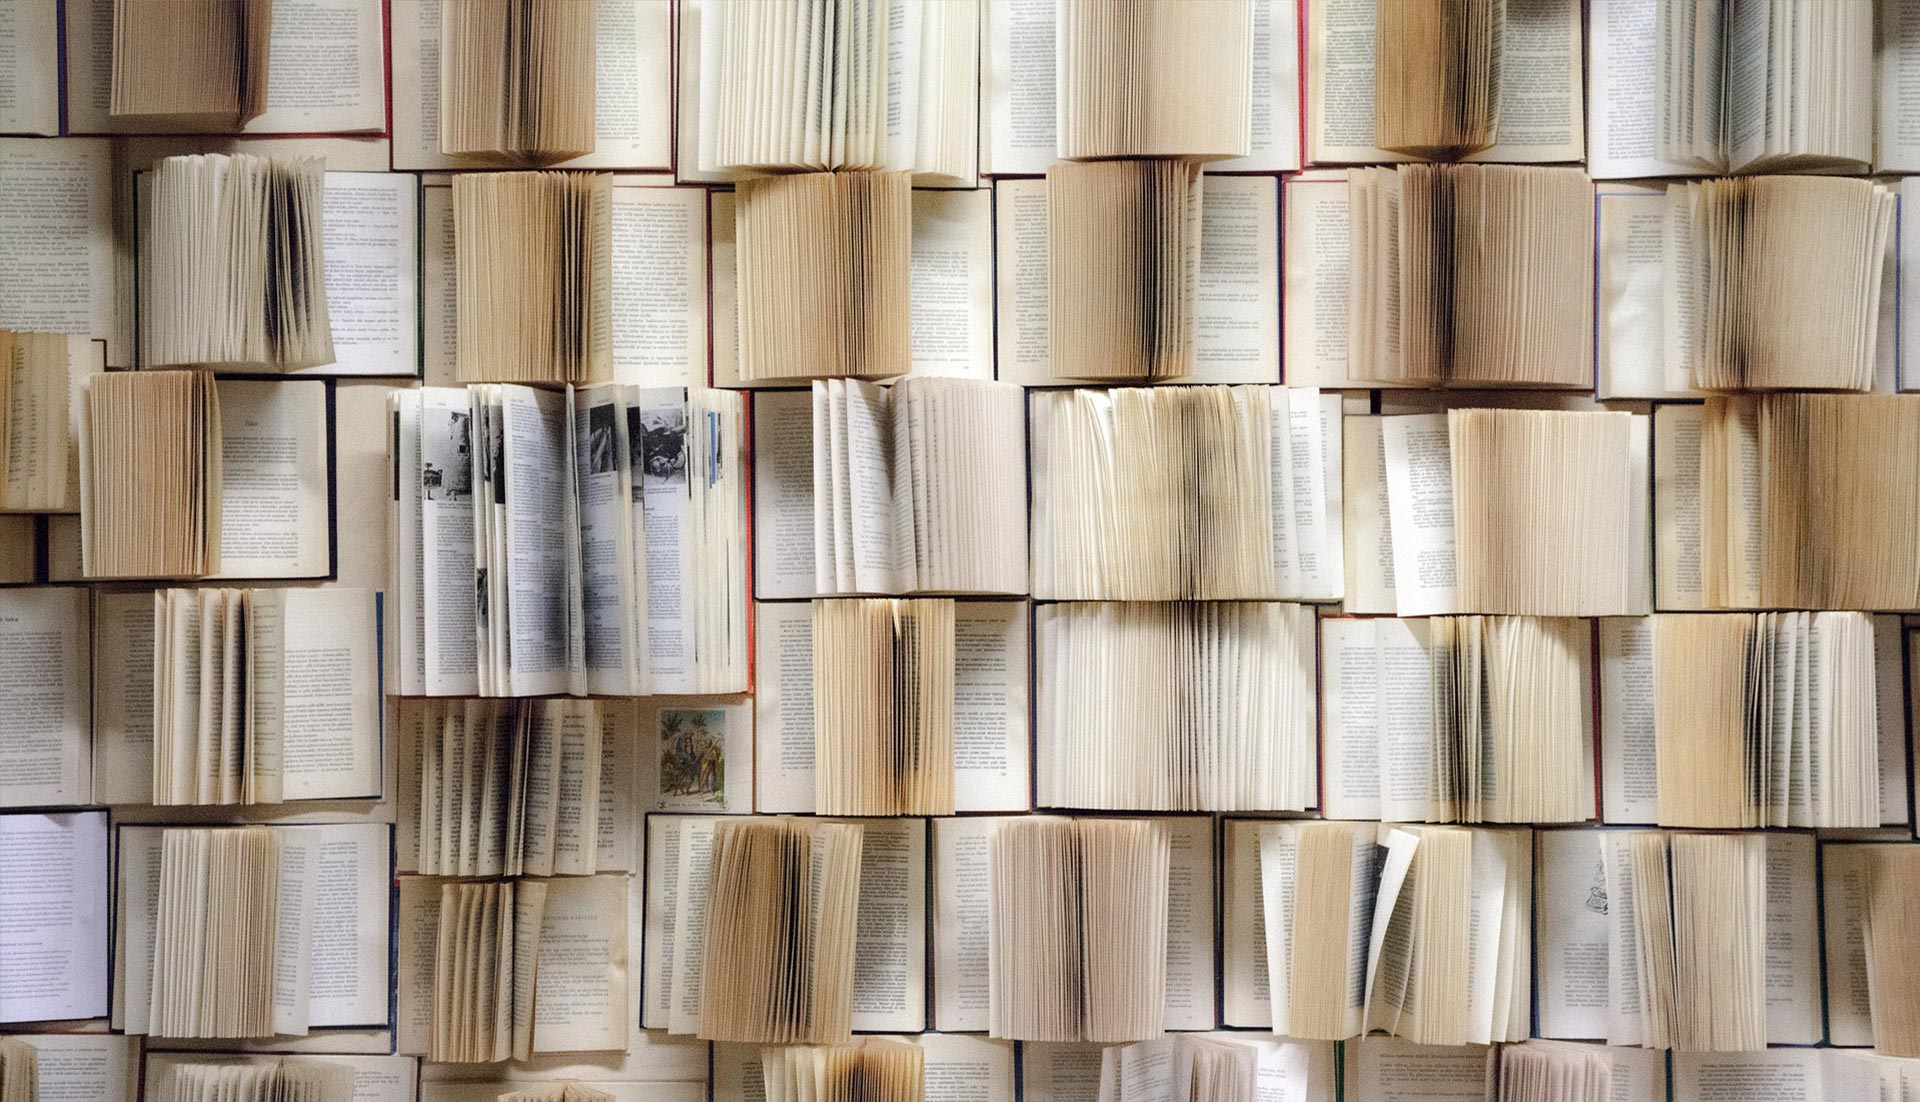
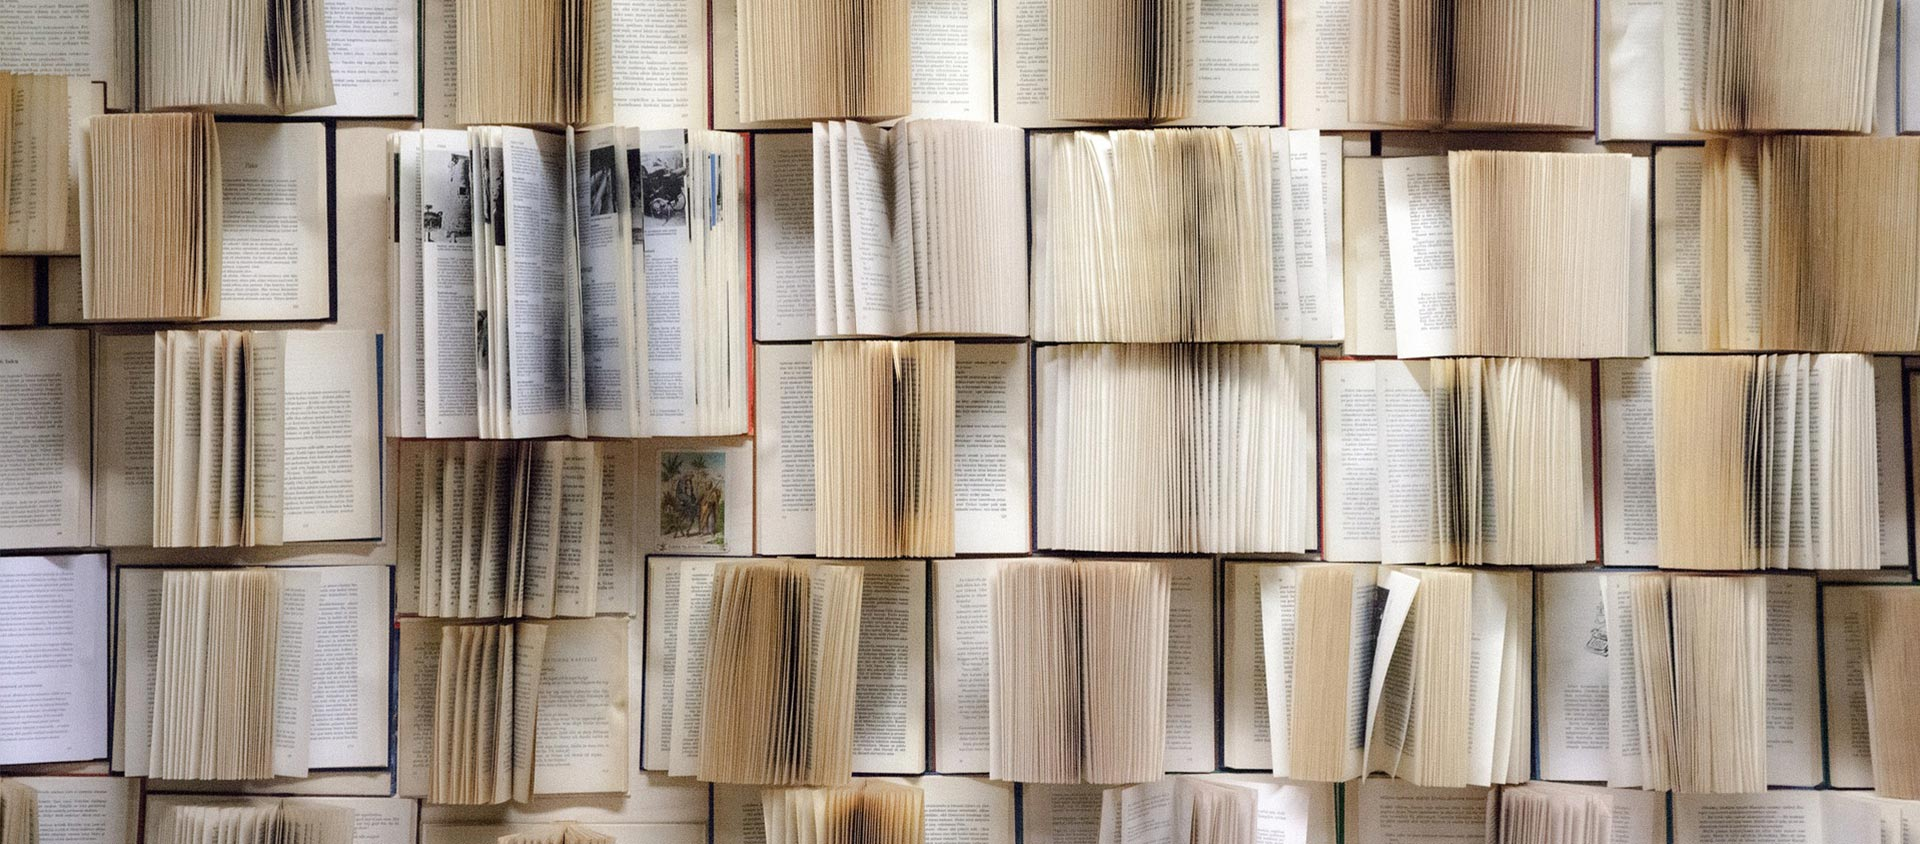
Resize carousel pictures on home page, started working on README.md- table of content

diff --git a/bookclub/views.py b/bookclub/views.py
@@ -138,6 +138,9 @@ class DeleteBook(generic.DeleteView):
 
 
 class BookLike(View):
+    """
+    View that allows users to like a book in club
+    """
 
     def post(self, request, slug):
         book = get_object_or_404(Book, slug=slug)
@@ -150,6 +153,9 @@ class BookLike(View):
 
 
 class BookVote(View):
+    """
+    View that allows users to vote on a book
+    """
 
     def post(self, request, slug):
         book = get_object_or_404(Book, slug=slug)
@@ -160,17 +166,6 @@ class BookVote(View):
 
         return HttpResponseRedirect(reverse('books_detail', args=[slug]))
 
-# class PollVote(generic.ListView):
-#     """
-#     View to allow users to vote on a book poll
-#     """
-#     model = PollChoice
-#     template_name = 'poll.html'
-#     queryset = Book.objects.order_by('title')
-#     fields = '__all__'
-#     success_message = "Thank you for your vote!"
-#     success_url = reverse_lazy('books.html')
-
 
 # Get lastest question and display it
 
@@ -179,9 +174,8 @@ def poll(request):
     context = {'latest_question_list': latest_question_list}
     return render(request, 'polls/index.html', context)
 
+
 # Show specific question and choices
-
-
 def detail(request, question_id):
 
     try:
@@ -193,15 +187,13 @@ def detail(request, question_id):
 
 
 # Get question and display results
-
 def results(request, question_id):
 
     question = get_object_or_404(Question, pk=question_id)
     return render(request, 'polls/results.html', {'question': question})
 
+
 # Vote for a question choice
-
-
 def vote(request, question_id):
     question = get_object_or_404(Question, pk=question_id)
 
@@ -209,9 +201,7 @@ def vote(request, question_id):
     for choice in question.choice_set.all():
         if choice.vote_set.filter(user=request.user).exists():
 
-        #if question.choice_set.filter(voter=request.user).exists():
-
-        # If the user has already voted, display an error message
+            # If the user has already voted, display an error message
             return render(request, 'polls/detail.html', {
                 'question': question,
                 'error_message': "You have already voted on this question.",
@@ -219,7 +209,6 @@ def vote(request, question_id):
 
     try:
         selected_choice = question.choice_set.get(pk=request.POST['choice'])
-       
         # Create a new Vote object to associate with the user and the question
         vote = Vote(user=request.user, choice=selected_choice)
         vote.save()
@@ -232,5 +221,3 @@ def vote(request, question_id):
             'question': question,
             'error_message': "You didn't select a choice.",
         })
-    
-        

diff --git a/bookclub/models.py b/bookclub/models.py
@@ -60,7 +60,7 @@ class Book(models.Model):
 class Comment(models.Model):
 
     book = models.ForeignKey(Book, on_delete=models.CASCADE,
-            related_name="comments")
+                             related_name="comments")
     name = models.CharField(max_length=75, default='Blank')
     email = models.EmailField()
     body = models.TextField()
@@ -92,5 +92,4 @@ class Choice(models.Model):
 
 class Vote (models.Model):
     user = models.ForeignKey(User, on_delete=models.CASCADE)
-    choice = models.ForeignKey(Choice, on_delete=models.CASCADE)  
-    
+    choice = models.ForeignKey(Choice, on_delete=models.CASCADE)

diff --git a/bookclub/admin.py b/bookclub/admin.py
@@ -30,6 +30,7 @@ class CommentAdmin(SummernoteModelAdmin):
 admin.site.register(Vote)
 admin.site.register(Choice)
 
+
 class ChoiceInLine(admin.TabularInline):
     model = Choice
     extra = 3

diff --git a/README.md b/README.md
@@ -1,10 +1,56 @@
-![CI logo](https://codeinstitute.s3.amazonaws.com/fullstack/ci_logo_small.png)
 
-Welcome Ygallo,
+# Page Turner Book Club
 
-This is the Code Institute student template for Gitpod. We have preinstalled all of the tools you need to get started. It's perfectly ok to use this template as the basis for your project submissions.
+Page Turner Book Club is an app to book lovers to find book to read and upload book for other user to explore. It is tarjet for people who like reading and areb interested in discussing and commenting about the books. There will be a monthly poll where user can vote for a book title to discuss on or just leave a comment. 
 
-You can safely delete this README.md file, or change it for your own project. Please do read it at least once, though! It contains some important information about Gitpod and the extensions we use. Some of this information has been updated since the video content was created. The last update to this file was: **September 1, 2021**
+
+## Table of contents
+- [Page Turner Book Club](#page-turner-book-club)
+
+ * [User Experience (UX)](#user-experience-ux)
+    + [User Stories](#user-stories)
+    + [Design](#design)
+      - [Colour Scheme](#colour-scheme)
+      - [Imagery](#imagery)
+      - [Fonts](#fonts)
+      - [Wireframes](#wireframes)
+  * [Agile Methodology](#agile-methodology)
+  * [Data Model](#data-model)
+  * [Testing](#testing)
+  * [Security Features and Defensive Design](#security-features-and-defensive-design)
+    + [User Authentication](#user-authentication)
+    + [Form Validation](#form-validation)
+    + [Database Security](#database-security)
+    + [Custom error pages:](#custom-error-pages-)
+  * [Features](#features)
+    + [Header](#header)
+    + [Footer](#footer)
+    + [Home Page](#home-page)
+    + [Books](#books-page)
+* [User Account Pages](#user-account-pages)
+    + [My Books](#my-books)
+    + [Add Books](#add-book-form)
+    + [Edit Book](#edit-book-form)
+    + [Delete RecipeBook](#delete-book)
+    + [Error Pages](#error-pages)
+    + [Future Features](#future-features)
+  * [Deployment - Heroku](#deployment---heroku)
+  * [Forking this repository](#forking-this-repository)
+  * [Cloning this repository](#cloning-this-repository)
+  * [Languages](#languages)
+  * [Frameworks - Libraries - Programs Used](#frameworks---libraries---programs-used)
+  * [Credits](#credits)
+  * [Acknowledgments](#acknowledgments)
+
+## User Experience (UX)
+
+A visitor of the Page Turner Book Club would be someone who is a an avid reader and is looking to be part of like-minded people group where he can discuss, recomend and find new reading interests.
+
+### User Stories
+
+#### User Profile
+- As a Site user I can register an Account so that so I can join a book club and connect with other readers.
+- As a User, I can log in or log out of my account so that I can have access to member benefits such as comments and votes.
 
 ## Gitpod Reminders
 
@@ -36,73 +82,3 @@ You can now use the `heroku` CLI program - try running `heroku apps` to confirm 
 
 ------
 
-## Release History
-
-We continually tweak and adjust this template to help give you the best experience. Here is the version history:
-
-**September 1 2021:** Remove `PGHOSTADDR` environment variable.
-
-**July 19 2021:** Remove `font_fix` script now that the terminal font issue is fixed.
-
-**July 2 2021:** Remove extensions that are not available in Open VSX.
-
-**June 30 2021:** Combined the P4 and P5 templates into one file, added the uptime script. See the FAQ at the end of this file.
-
-**June 10 2021:** Added: `font_fix` script and alias to fix the Terminal font issue
-
-**May 10 2021:** Added `heroku_config` script to allow Heroku API key to be stored as an environment variable.
-
-**April 7 2021:** Upgraded the template for VS Code instead of Theia.
-
-**October 21 2020:** Versions of the HTMLHint, Prettier, Bootstrap4 CDN and Auto Close extensions updated. The Python extension needs to stay the same version for now.
-
-**October 08 2020:** Additional large Gitpod files (`core.mongo*` and `core.python*`) are now hidden in the Explorer, and have been added to the `.gitignore` by default.
-
-**September 22 2020:** Gitpod occasionally creates large `core.Microsoft` files. These are now hidden in the Explorer. A `.gitignore` file has been created to make sure these files will not be committed, along with other common files.
-
-**April 16 2020:** The template now automatically installs MySQL instead of relying on the Gitpod MySQL image. The message about a Python linter not being installed has been dealt with, and the set-up files are now hidden in the Gitpod file explorer.
-
-**April 13 2020:** Added the _Prettier_ code beautifier extension instead of the code formatter built-in to Gitpod.
-
-**February 2020:** The initialisation files now _do not_ auto-delete. They will remain in your project. You can safely ignore them. They just make sure that your workspace is configured correctly each time you open it. It will also prevent the Gitpod configuration popup from appearing.
-
-**December 2019:** Added Eventyret's Bootstrap 4 extension. Type `!bscdn` in a HTML file to add the Bootstrap boilerplate. Check out the <a href="https://github.com/Eventyret/vscode-bcdn" target="_blank">README.md file at the official repo</a> for more options.
-
-------
-
-## FAQ about the uptime script
-
-**Why have you added this script?**
-
-It will help us to calculate how many running workspaces there are at any one time, which greatly helps us with cost and capacity planning. It will help us decide on the future direction of our cloud-based IDE strategy.
-
-**How will this affect me?**
-
-For everyday usage of Gitpod, it doesn’t have any effect at all. The script only captures the following data:
-
-- An ID that is randomly generated each time the workspace is started.
-- The current date and time
-- The workspace status of “started” or “running”, which is sent every 5 minutes.
-
-It is not possible for us or anyone else to trace the random ID back to an individual, and no personal data is being captured. It will not slow down the workspace or affect your work.
-
-**So….?**
-
-We want to tell you this so that we are being completely transparent about the data we collect and what we do with it.
-
-**Can I opt out?**
-
-Yes, you can. Since no personally identifiable information is being captured, we'd appreciate it if you let the script run; however if you are unhappy with the idea, simply run the following commands from the terminal window after creating the workspace, and this will remove the uptime script:
-
-```
-pkill uptime.sh
-rm .vscode/uptime.sh
-```
-
-**Anything more?**
-
-Yes! We'd strongly encourage you to look at the source code of the `uptime.sh` file so that you know what it's doing. As future software developers, it will be great practice to see how these shell scripts work.
-
----
-
-Happy coding!
